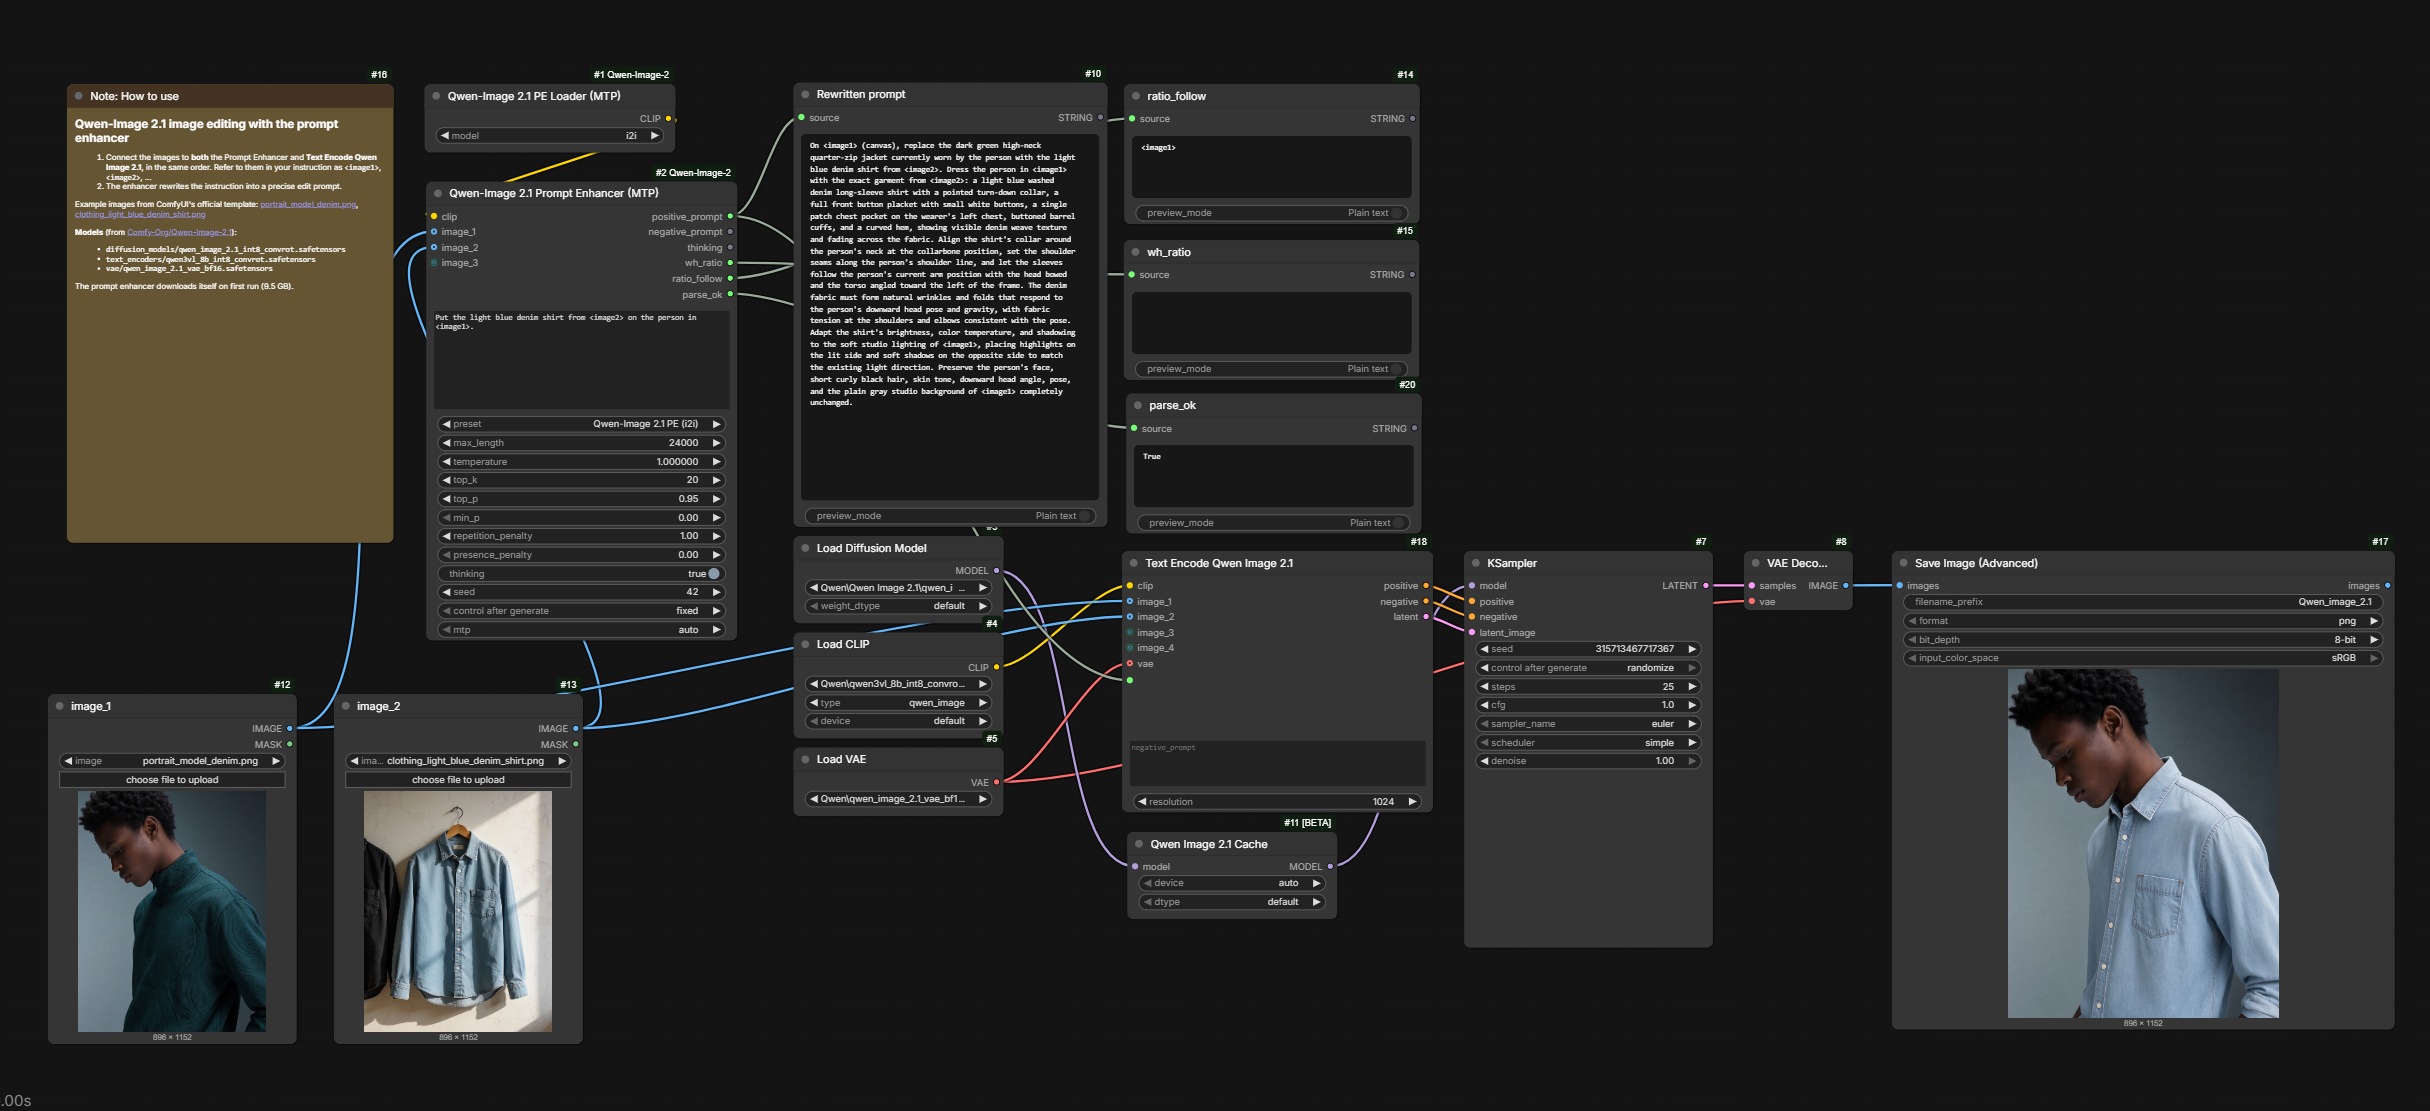
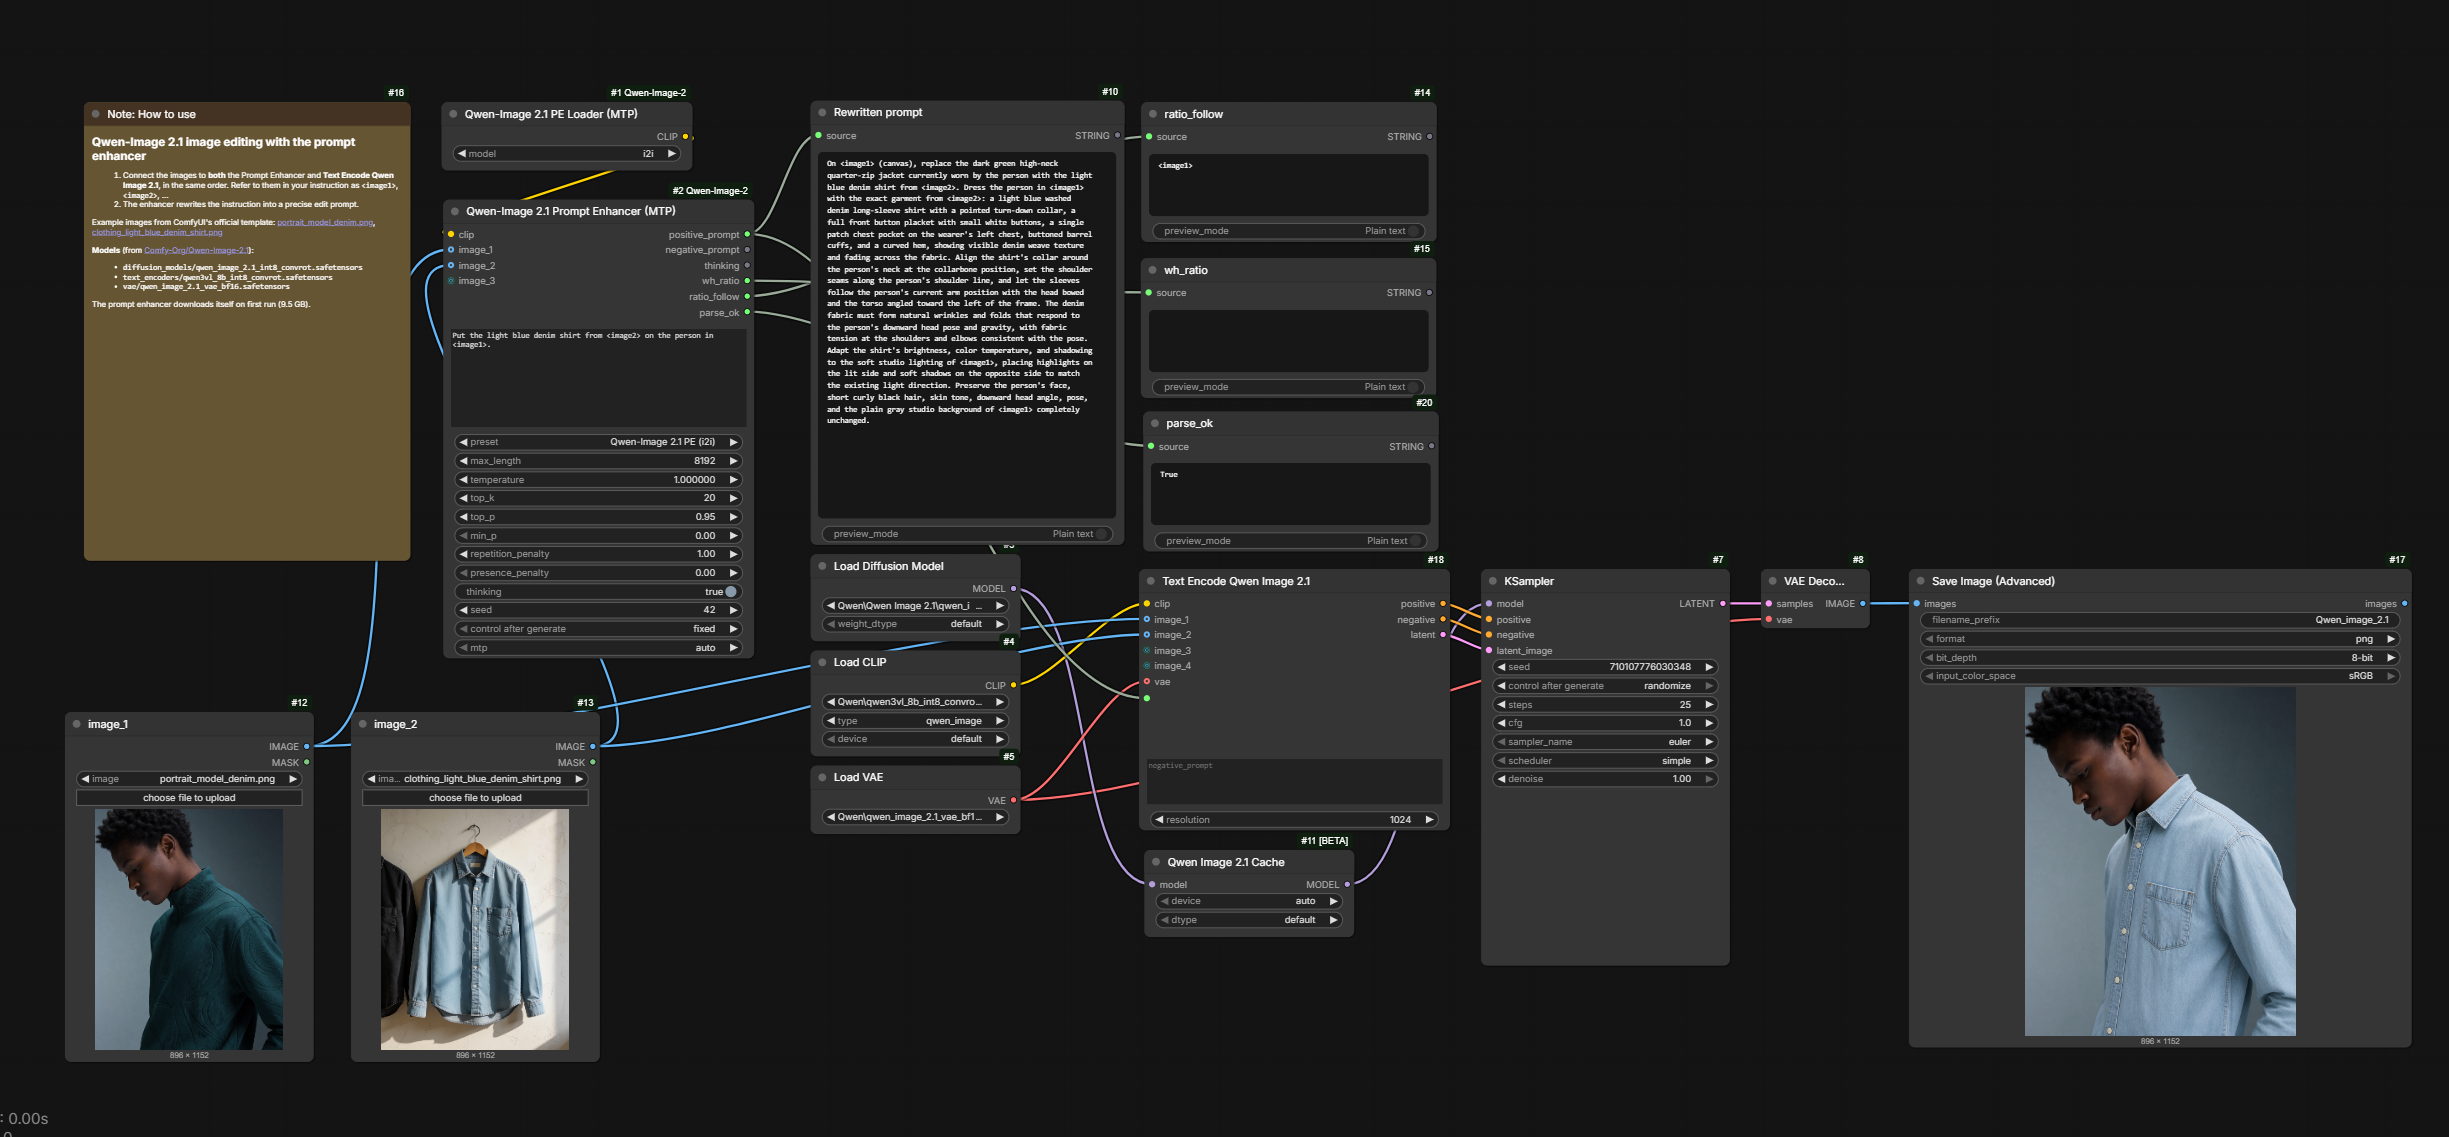
Release 1.1.2: default max_length to 8192
A higher max_length slows Qwen3.5 decoding and answers fit well within 8192, so the presets now default to it instead of the official 16256 (t2i) and 24000 (i2i). Update the README, workflows and screenshots to match.

Changed region(s): [[0.0, 0.0612, 0.9877, 0.9487], [0.7716, 0.7039, 0.9877, 0.9487], [0.0, 0.9793, 0.0309, 1.0]]

diff --git a/__init__.py b/__init__.py
@@ -8,10 +8,12 @@ from comfy_extras.nodes_textgen import TextGenerate
 from .mtp import MTPClip, pe_prompt, split_thinking
 from .pe import PE, ensure_model, fit_image, parse_answer, system_prompt
 
-# official prompt_rewrite/pe_core.py profiles: shared sampling, per-task presence penalty and token cap
+# official prompt_rewrite/pe_core.py profiles: shared sampling, per-task presence penalty. The token cap is 8192
+# instead of the official 16256 (t2i) / 24000 (i2i): Qwen3.5 decode attends over the whole reserved cache, so a
+# higher cap is slower, and answers fit well within 8192
 PRESETS = {
-    "Qwen-Image 2.1 PE (t2i)": {"task": "t2i", "max_length": 16256, "presence_penalty": 1.5},
-    "Qwen-Image 2.1 PE (i2i)": {"task": "i2i", "max_length": 24000, "presence_penalty": 0.0},
+    "Qwen-Image 2.1 PE (t2i)": {"task": "t2i", "max_length": 8192, "presence_penalty": 1.5},
+    "Qwen-Image 2.1 PE (i2i)": {"task": "i2i", "max_length": 8192, "presence_penalty": 0.0},
 }
 
 

diff --git a/README.md b/README.md
@@ -134,7 +134,7 @@ ComfyUI's **Generate Text** node with the official PE presets built in.
 | ratio_follow | Editing only: the image whose shape to keep, for example &lt;image1&gt; |
 | parse_ok | false if the answer couldn't be read; positive_prompt then contains the full answer |
 
-The presets use the official values from Qwen's [prompt_rewrite](https://github.com/QwenLM/Qwen-Image-2.1/tree/main/prompt_rewrite) code, and every value can be changed on the node.
+The presets use the official values from Qwen's [prompt_rewrite](https://github.com/QwenLM/Qwen-Image-2.1/tree/main/prompt_rewrite) code, except max_length: it defaults to 8192 instead of 16256 (t2i) and 24000 (i2i), because a higher max_length is slower (see [Performance](#performance)). Every value can be changed on the node.
 
 > [!IMPORTANT]
 > Keep **thinking** on. Both models were trained to reason before answering and give worse prompts without it.
@@ -145,13 +145,12 @@ Measured on an RTX 4090 Laptop GPU (16 GB), with one input image for editing.
 
 | Mode | max_length | MTP off | MTP on | Speed-up |
 |---|---|---|---|---|
-| Text-to-image | 16256 (default) | 27 tok/s | 38 tok/s | 1.38× |
-| Text-to-image | 8192 | 35 tok/s | 47 tok/s | 1.36× |
-| Editing | 24000 (default) | 21 tok/s | 36 tok/s | 1.67× |
-| Editing | 8192 | 31 tok/s | 52 tok/s | 1.65× |
+| Text-to-image | 8192 (default) | 35 tok/s | 47 tok/s | 1.36× |
+| Text-to-image | 16256 (official) | 27 tok/s | 38 tok/s | 1.38× |
+| Editing | 8192 (default) | 31 tok/s | 52 tok/s | 1.65× |
+| Editing | 24000 (official) | 21 tok/s | 36 tok/s | 1.67× |
 
-> [!TIP]
-> Set **max_length** to **8192** for faster results. A typical answer is 2,000–4,000 tokens, so this leaves plenty of room. If an answer is ever cut off, raise it again.
+A typical answer is 2,000–4,000 tokens, so 8192 leaves plenty of room. If an answer is ever cut off, raise max_length.
 
 Peak VRAM use was about 14 GB for text-to-image and 16 GB for editing. With MTP on, quality is unchanged, but the same seed gives different text than with MTP off.
 
